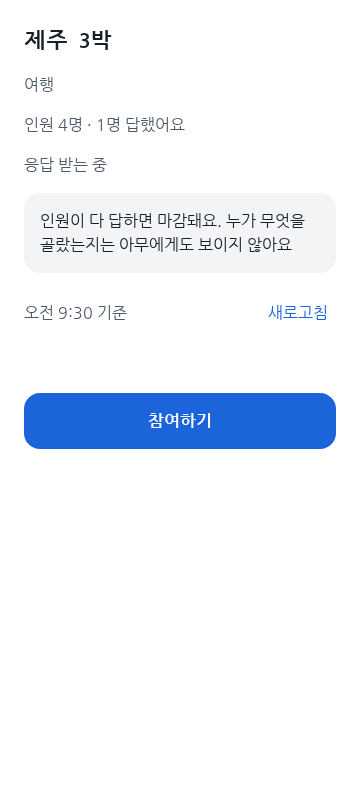
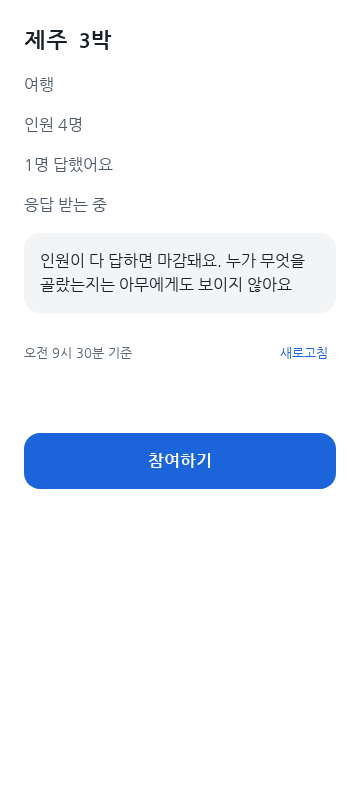
TASK-040: align full-room feedback with screen review

diff --git a/apps/web/src/Room.tsx b/apps/web/src/Room.tsx
@@ -36,7 +36,7 @@ export function RoomIntro() {
   if (missing) return <main className="create"><h1>이 방은 없거나 보관 기간이 지났어요</h1><Button display="block" onClick={() => navigate('/rooms/new')}>방 만들기</Button></main>;
   return <main className="create">{!room && loading && <div className="skeletons" role="status"><span /><span /><span /><span className="sr-only">불러오고 있어요</span></div>}
     {error !== undefined && <div role="alert"><p>잠시 뒤 다시 해 주세요</p>{error && <p>오류 번호 {error}</p>}<button className="link-button" onClick={() => void load()}>다시 시도</button></div>}
-    {room && <><h1>{room.gatheringName}</h1><p>{room.theme.name}</p>{room.isFull ? <><p>이 방은 8명이 다 찼어요</p><p>우리 모임 방을 새로 만들 수 있어요</p><Button display="block" onClick={() => navigate('/rooms/new')}>방 만들기</Button></> : <><p>인원 {room.partySize}명 · {room.submittedCount}명 답했어요</p><p>응답 받는 중</p><div className="room-notice">인원이 다 답하면 마감돼요. 누가 무엇을 골랐는지는 아무에게도 보이지 않아요</div><div className="as-of"><span>{formatAsOf(room.asOf)}{refreshing && <> · 다시 불러오는 중 <span aria-hidden="true" className="refresh-spinner" /></>}</span>{!refreshing && <button className="link-button" onClick={() => void load()}>새로고침</button>}</div><div className="create-action"><Button display="block" onClick={() => navigate('/room/join', true)}>참여하기</Button></div></>}</>}
+    {room && <><h1>{room.gatheringName}</h1><p>{room.theme.name}</p>{room.isFull ? <><div className="room-notice"><p>이 방은 8명이 다 찼어요</p><p>우리 모임 방을 새로 만들 수 있어요</p></div><div className="create-action"><Button display="block" onClick={() => navigate('/rooms/new')}>방 만들기</Button></div></> : <><p>인원 {room.partySize}명</p><p>{room.submittedCount}명 답했어요</p><p>응답 받는 중</p><div className="room-notice">인원이 다 답하면 마감돼요. 누가 무엇을 골랐는지는 아무에게도 보이지 않아요</div><div className="as-of"><span>{formatAsOf(room.asOf)}{refreshing && <> · 다시 불러오는 중 <span aria-hidden="true" className="refresh-spinner" /></>}</span>{!refreshing && <button className="link-button" onClick={() => void load()}>새로고침</button>}</div><div className="create-action"><Button display="block" onClick={() => navigate('/room/join', true)}>참여하기</Button></div></>}</>}
   </main>;
 }
 export function JoinRoom() {
@@ -63,8 +63,9 @@ export function JoinRoom() {
     } finally { setLoading(false); }
   }
   if (state === 'permission') return <main className="entry"><section className="entry-content"><h1>지금은 쓸 수 없어요</h1></section></main>;
-  if (state === 'full' || state === 'missing') return <main className="create"><h1>{state === 'full' ? '이 방은 8명이 다 찼어요' : '이 방은 없거나 보관 기간이 지났어요'}</h1><Button display="block" onClick={() => navigate('/rooms/new')}>방 만들기</Button></main>;
-  return <main className="create"><h1>{roomContext.name}에서 쓸 닉네임을 적어 주세요</h1><fieldset disabled={loading}><label htmlFor="join-name">닉네임</label><input id="join-name" value={nickname} maxLength={30} onChange={e => setNickname(e.target.value)} onBlur={() => setFieldError(!valid.valid)} aria-invalid={fieldError} /><p>닉네임은 이 방에서 나만 봐요 · {[...nickname.trim()].length}/10</p>{fieldError && <p role="alert">닉네임은 1~10자로, 쓸 수 없는 말이 있어요</p>}</fieldset>
+  if (state === 'missing') return <main className="create"><h1>이 방은 없거나 보관 기간이 지났어요</h1><Button display="block" onClick={() => navigate('/rooms/new')}>방 만들기</Button></main>;
+  return <main className="create"><h1>{roomContext.name}에서 쓸 닉네임을 적어 주세요</h1><fieldset disabled={loading || state === 'full'}><label htmlFor="join-name">닉네임</label><input id="join-name" aria-describedby="join-name-help" value={nickname} maxLength={30} onChange={e => setNickname(e.target.value)} onBlur={() => setFieldError(!valid.valid)} aria-invalid={fieldError} /><p id="join-name-help">닉네임은 이 방에서 나만 봐요 · {[...nickname.trim()].length}/10</p>{fieldError && <p role="alert">닉네임은 1~10자로, 쓸 수 없는 말이 있어요</p>}</fieldset>
     {error !== undefined && <div role="alert"><p>잠시 뒤 다시 해 주세요</p>{error && <p>오류 번호 {error}</p>}</div>}
-    <div className="create-action"><Button display="block" loading={loading} disabled={!valid.valid || loading || seconds > 0} onClick={() => void submit()}>{seconds ? `다시 시도 (${seconds}초)` : '들어가기'}</Button></div></main>;
+    {state === 'full' && <div role="alert"><h2>이 방은 8명이 다 찼어요</h2><p>우리 모임 방을 새로 만들 수 있어요</p></div>}
+    <div className="create-action"><Button display="block" loading={loading} disabled={!valid.valid || loading || seconds > 0 || state === 'full'} onClick={() => void submit()}>{seconds ? `다시 시도 (${seconds}초)` : '들어가기'}</Button>{state === 'full' && <Button display="block" variant="weak" onClick={() => navigate('/rooms/new')}>방 만들기</Button>}</div></main>;
 }

diff --git a/apps/web/e2e/join.spec.ts b/apps/web/e2e/join.spec.ts
@@ -13,7 +13,7 @@ test('방 소개에서 닉네임을 적어 입장한다', async ({ page }) => {
     return route.fulfill({ headers: cors, json: room });
   });
   await enter(page);
-  await expect(page.getByText('인원 4명 · 1명 답했어요')).toBeVisible();
+  await expect(page.getByText('인원 4명', { exact: true })).toBeVisible(); await expect(page.getByText('1명 답했어요', { exact: true })).toBeVisible();
   await expect(page.getByText('ABCDEFGH23')).toHaveCount(0);
   if (process.env.CAPTURE_JOIN) await page.screenshot({ path: '../../docs/10-wbs/captures/task-040.png', fullPage: true });
   await page.getByRole('button', { name: '참여하기' }).click();

diff --git a/apps/web/src/style.css b/apps/web/src/style.css
@@ -68,3 +68,4 @@ div[role="alert"] { background: var(--color-feedback-error-bg); border-radius: v
 .theme-badge { display: inline-block; font-size: var(--font-size-caption); color: var(--color-accent-on-subtle); background: var(--color-accent-subtle); padding: var(--space-1) var(--space-2); border-radius: var(--radius-chip); }
 .create .menu-button { display: flex; justify-content: space-between; }
 .room-notice { background: var(--color-bg-subtle); color: var(--color-text-primary); padding: var(--space-4); border-radius: var(--radius-box); }
+div[role="alert"] h2 { font-size: var(--font-size-heading); margin: 0; }
